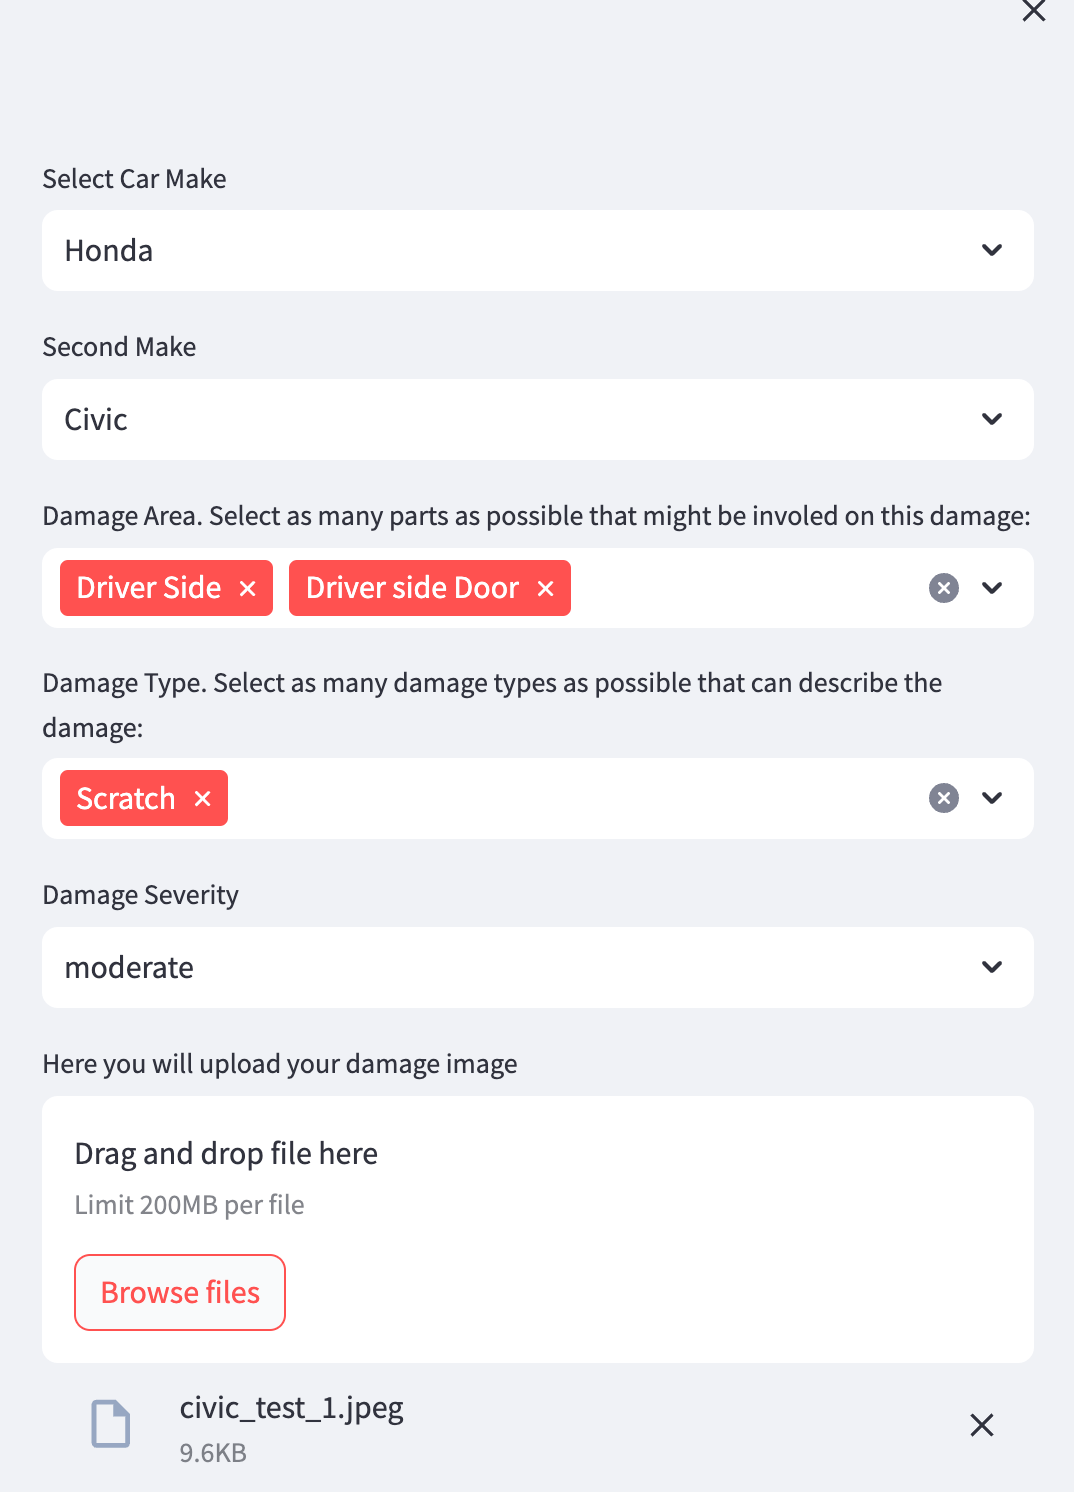
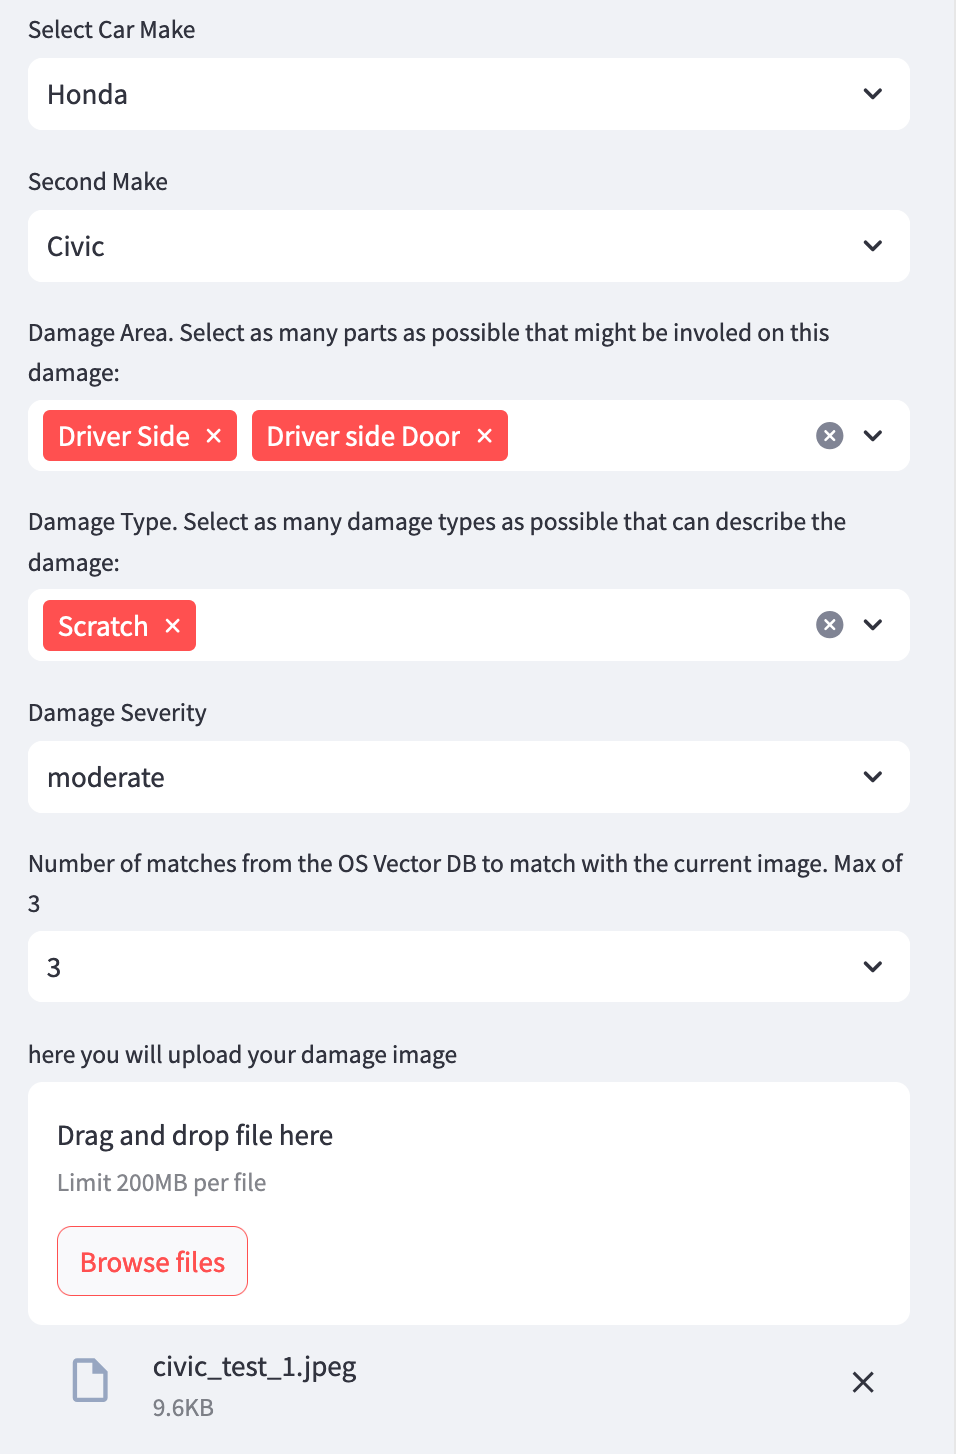
fix instructions

diff --git a/README.md b/README.md
@@ -36,7 +36,7 @@ Go To the Bedrock console in one of the Bedrock supported regions and enable at 
 - Amazon Titan Multimoal Embeddings
 - Anthropic Claude 3 Haiku
 
-In order to enable the mentioned models. You can follow the instructions provided [here](https://docs.aws.amazon.com/bedrock/latest/userguide/model-access.html#model-access-modify)
+In order to enable the mentioned models. You can follow the instructions provided [here](https://docs.aws.amazon.com/bedrock/latest/userguide/model-access.html#model-access-modify).
 
 ## Step 2: Run CloudFormation template
 
@@ -50,13 +50,9 @@ CloudFormation Deployments
 | US-WEST-2 | [![Open In CloudFormation](/static_assets/view-template.png)](https://us-west-2.console.aws.amazon.com/cloudformation/home?region=us-west-2#/stacks/quickcreate?templateURL=https://s3.us-east-1.amazonaws.com/pedroni-us-east-1/new_build_proj.yml)|
 | EU-CENTRAL-1 | [![Open In CloudFormation](/static_assets/view-template.png)](https://eu-central-1.console.aws.amazon.com/cloudformation/home?region=eu-central-1#/stacks/quickcreate?templateURL=https://s3.us-east-1.amazonaws.com/pedroni-us-east-1/new_build_proj.yml)|
 
-## Step 3: Verification of Deployment
+## Step 3: Access Inference Code.
 
-Once CloudFormation turns to Create_Complete status, it means all infrastructure was deployed, however the ingestion code might still be running, in order to verify that go to the ecs task for ingestion and check it's cpu/mem usage.
-
-## Step 4: Access Inference Code.
-
-Go to the CloudFormation stack and on the outputs tab, look for the "InferenceUIURL" key, you should see a cloudfront distribution link, click there should take you to the inference ui.
+Once the CloudFormation stack has finished deploying, go to the outputs tab, look for the "InferenceUIURL" key, you should see a cloudfront distribution link, click there should take you to the inference ui.
 
 ![CFN Outputs](/static_assets/cfn_output.png)
 
@@ -69,6 +65,7 @@ Go to the CloudFormation stack and on the outputs tab, look for the "InferenceUI
 - For Damage Area, select: Driver Side and Driver Side Door
 - For Damage Type, select: Scratch
 - For Damage Severity, select: moderate
+- For the "Number of matches", select 3 - You can change this, in this case using 3 to show the different matches.
 
 ![Test1_Param](/static_assets/Test1_Parameters.png)
 
@@ -76,7 +73,7 @@ Go to the CloudFormation stack and on the outputs tab, look for the "InferenceUI
 
 ![Test1_Results](/static_assets/Test1_Results.png)
 
-In this example, we can see it found the closest 3 matches, and by order of accuracy, they are 0.99950504, 0.92682207, and 0.92027134.
+In this example, we can see it found the closest 3 matches, and by order of accuracy, they are 0.99950504, 0.93129104, and 0.92037815.
 
 3. The 0.99 is the closest match that we found in the DB, and the only difference is that the ingested image has a slightly different metadata from what we created when we ran the inference.
 
@@ -84,7 +81,7 @@ In this example, we can see it found the closest 3 matches, and by order of accu
 
 ![Test1_Results](/static_assets/Test1_less_accurate.png)
 
-5. Our results went from 0.9995 to 0.9978193. We still have a high match because it's the same image, but just changing a small parameter from the UI decreased the vector match. This means that the more accurate we can be on our metadata, the closest match we will find, and the more accurate the damage image will be that matches the make, model, and other parameters from the user.
+5. Our results went from 0.99950504 to 0.99861217. We still have a high match because it's the same image, but just changing a small parameter from the UI decreased the vector match. This means that the more accurate we can be on our metadata, the closest match we will find, and the more accurate the damage image will be that matches the make, model, and other parameters from the user.
 
 6. Play around with the images in the 'test_dataset' folder, or even try some images from the data set we loaded into the Vector DB.
 
@@ -97,6 +94,8 @@ In this example, we can see it found the closest 3 matches, and by order of accu
 - For Damage Area, select: Rear Left and Hood
 - For Damage Type, select: Broken
 - For Damage Severity, select: severe
+- For the "Number of matches", select 3 - You can change this, in this case using 3 to show the different matches.
+
 
 ![Test2_Param](/static_assets/Test2_Parameters.png)
 
